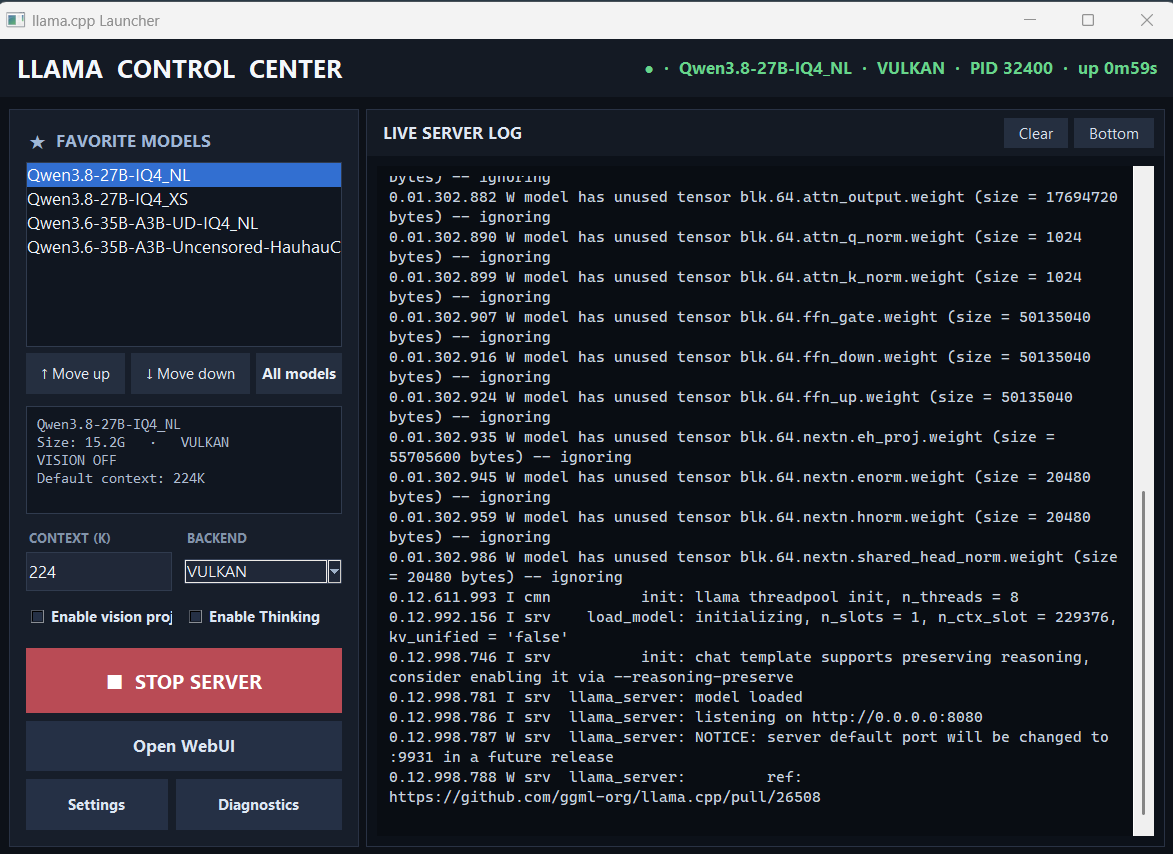
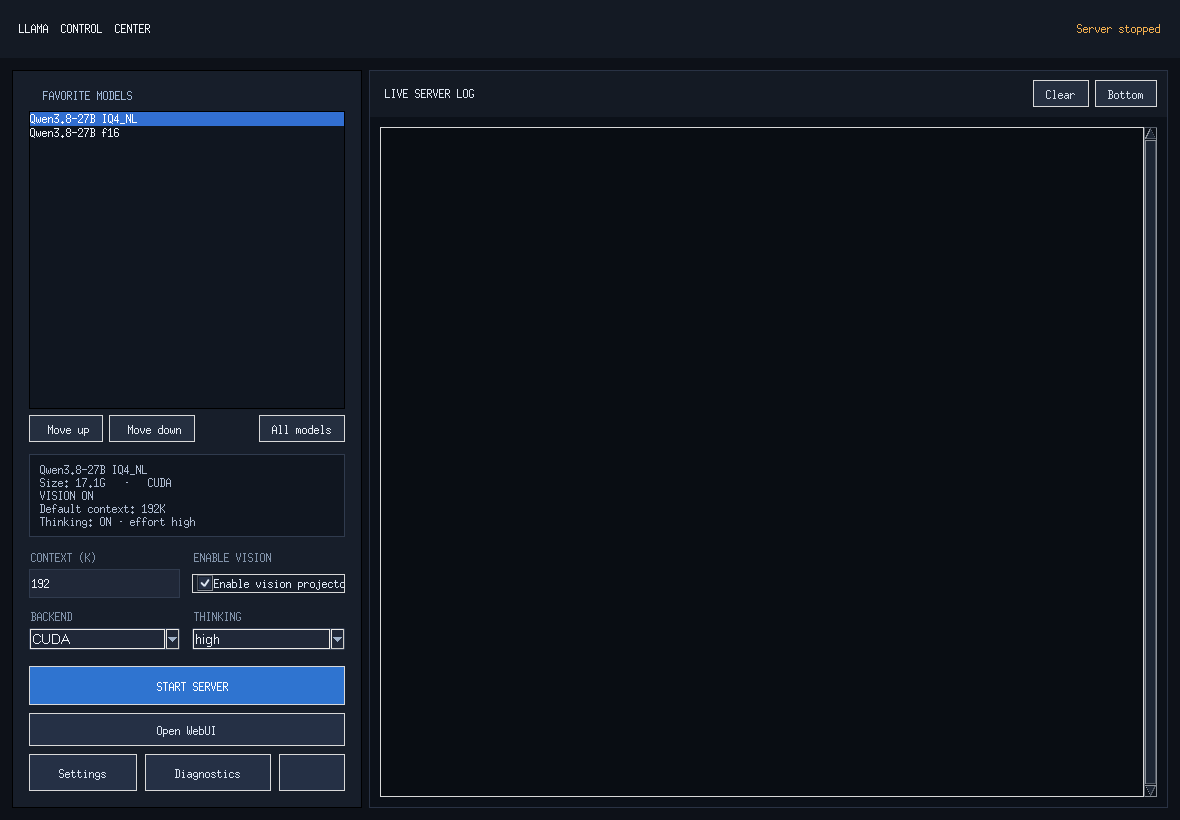
docs: refresh README screenshots for new UI (THINKING dropdown + tabbed settings), bump test badge to 122

Changed region(s): [[0.0, 0.0, 1.0, 1.0]]

diff --git a/README.md b/README.md
@@ -6,7 +6,7 @@
 
 啟動、接管、檢視、遠端控制，全部在一個畫面搞定，不用再開 terminal 打指令。
 
-![Windows](https://img.shields.io/badge/Windows-✓-0078D6) ![Linux](https://img.shields.io/badge/Linux-x64-✓-A855F7) ![License](https://img.shields.io/badge/License-MIT-blue) ![tests](https://img.shields.io/badge/tests-38%20passed-green)
+![Windows](https://img.shields.io/badge/Windows-✓-0078D6) ![Linux](https://img.shields.io/badge/Linux-x64-✓-A855F7) ![License](https://img.shields.io/badge/License-MIT-blue) ![tests](https://img.shields.io/badge/tests-122%20passed-green)
 
 </div>
 
@@ -29,6 +29,7 @@
 | 功能 | 說明 |
 |---|---|
 | 🗂 Model profiles | 每個模型的 context、GPU 分配、KV 精度、reasoning、思考強度、vision 各自獨立存檔 |
+| 🗂 分頁設定 | 模型設定採「模型／加速／進階」三頁籤，長表單不再把選項擠出視窗 |
 | 🧠 思考強度 | llama.cpp `--reasoning-effort`（default/minimal/low/medium/high/xhigh/max），思考模式開啟時可選 |
 | 🎮 GPU 分配 | 自動，或自訂各卡層數（如 `16,8`），常用分配自動記住、可刪除 |
 | 🚀 一鍵啟動 | 幫你組好 `-ngl -c -ts -ctk/ctv --parallel --reasoning-effort` 等參數，直接 launch |
@@ -46,7 +47,11 @@
 
 ![LlamaLauncher 主畫面](docs/screenshot.png)
 
-*主畫面：Favorite Models、整合 Log、一鍵 Start/Stop*
+*主畫面：Favorite Models、整合 Log、一鍵 Start/Stop；思考強度直接在 THINKING 下拉選（off = 不思考）*
+
+![LlamaLauncher 模型設定（分頁）](docs/screenshot-settings.png)
+
+*模型設定採分頁（模型／加速／進階），不再一長串把選項擠出視窗*
 
 ![LlamaLauncher 遠端啟動介面](docs/remote.png)
 
@@ -66,7 +71,7 @@
 ### Linux (x86_64)
 
 ```bash
-wget -c https://github.com/pttocean-afk/llama-launcher/releases/latest/download/LlamaLauncher-Linux-x86_64.tar.gz  # 把 your-user 換成你的帳號
+wget -c https://github.com/pttocean-afk/llama-launcher/releases/latest/download/LlamaLauncher-Linux-x86_64.tar.gz
 tar -xzf LlamaLauncher-Linux-x86_64.tar.gz
 ./LlamaLauncher/LlamaLauncher
 ```
@@ -211,6 +216,7 @@ GPU split, and remote access are a pain. **Llama Launcher** wraps it all up:
 | Feature | Description |
 |---|---|
 | Model profiles | Per-model context / GPU split / KV / reasoning / thinking intensity / vision |
+| Tabbed settings | Per-model dialog uses Model / Performance / Advanced tabs — long forms no longer overflow the window |
 | Thinking intensity | llama.cpp `--reasoning-effort` (default/minimal/low/medium/high/xhigh/max), chosen when reasoning is on |
 | GPU split | Auto, or custom layers per GPU (e.g. `16,8`); presets remembered & removable |
 | One-click start | Builds `-ngl -c -ts -ctk/ctv --parallel --reasoning-effort` args for you |
@@ -221,6 +227,16 @@ GPU split, and remote access are a pain. **Llama Launcher** wraps it all up:
 | Legacy migration | Import old profiles / token in one click |
 | Profile export/import | Portable JSON (no local absolute paths) |
 | Performance analysis | 10K used-context bucket decode/prefill curves, fairness warnings, 6-format export |
+
+## Screenshots
+
+![LlamaLauncher main screen](docs/screenshot.png)
+
+*Main screen: favorite models, integrated log, one-click Start/Stop; thinking is chosen in the THINKING dropdown (off = no thinking)*
+
+![LlamaLauncher per-model settings (tabs)](docs/screenshot-settings.png)
+
+*Per-model settings use tabs (Model / Performance / Advanced), so long forms no longer overflow the window*
 
 ## Quick start
 
